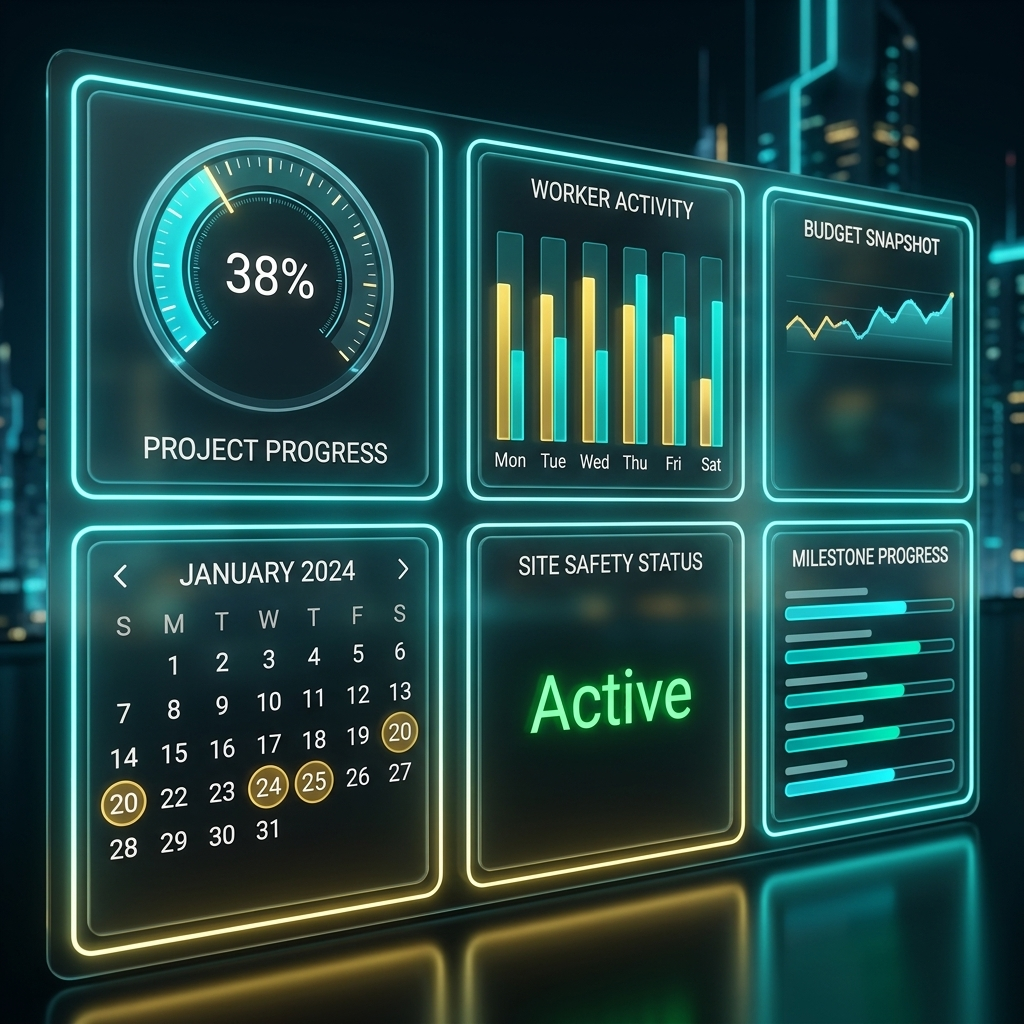
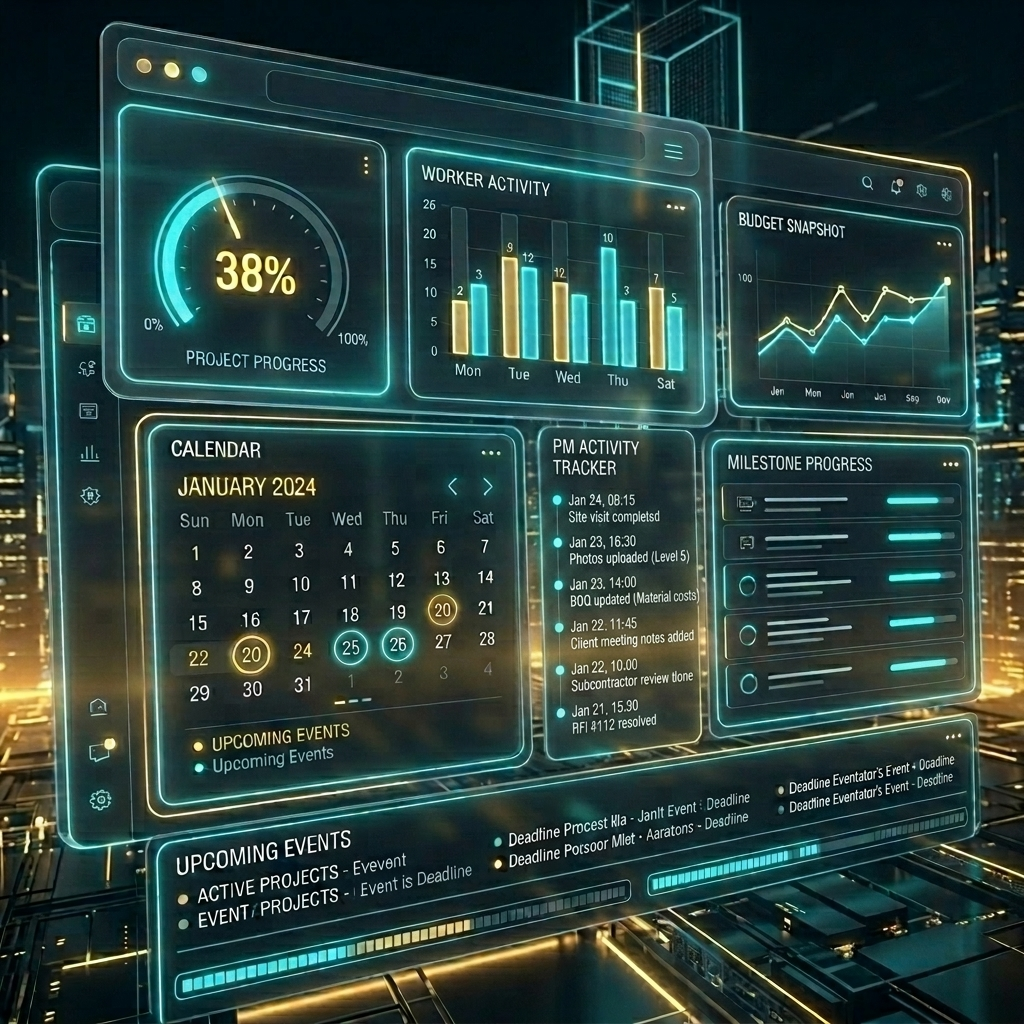
Switch to PM Activity Tracker dashboard with bottom crop

diff --git a/index.html b/index.html
@@ -69,8 +69,8 @@
                     </p>
                 </div>
                 
-                <div class="teaser-image" style="border-radius: 16px; overflow: hidden; box-shadow: 0 25px 50px -12px rgba(0, 0, 0, 0.7); border: 1px solid rgba(255,255,255,0.05); transform: perspective(1000px) rotateY(-5deg);">
-                    <img src="images/dashboard_ui.png" alt="Keystone Project Dashboard Interface" style="width: 100%; height: auto; display: block;">
+                <div class="teaser-image" style="border-radius: 16px; overflow: hidden; box-shadow: 0 25px 50px -12px rgba(0, 0, 0, 0.7); border: 1px solid rgba(255,255,255,0.05); transform: perspective(1000px) rotateY(-5deg); aspect-ratio: 1 / 0.78;">
+                    <img src="images/dashboard_ui.png" alt="Keystone Project Dashboard Interface" style="width: 100%; display: block; object-fit: cover; object-position: top;">
                 </div>
             </div>
             
